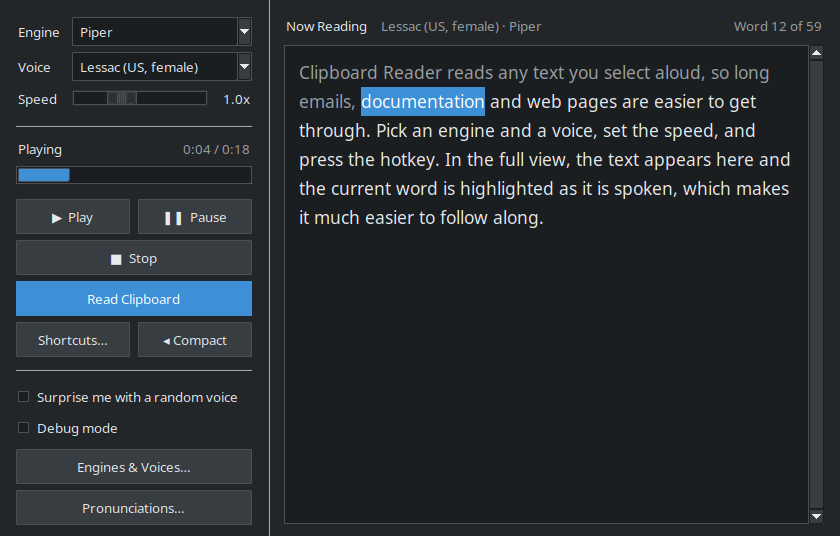
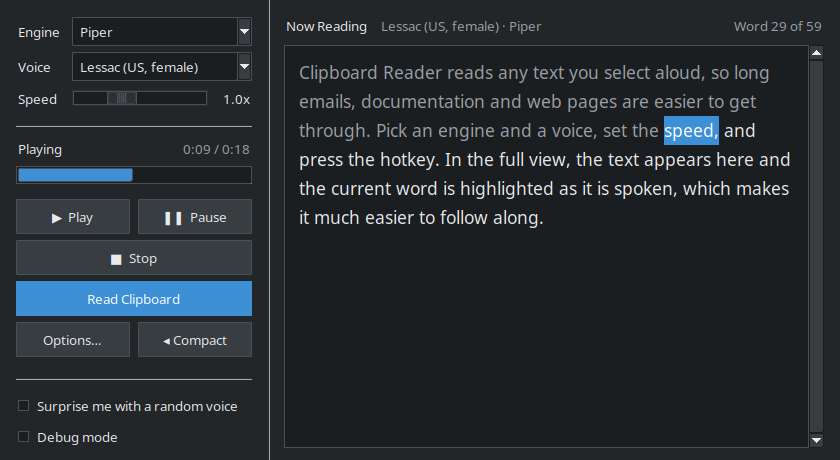
Move engines, pronunciations and shortcuts into one Options window (v1.8.0)
Engines & Voices, Pronunciations, Links, paths & codes, and Shortcuts are
now tabs in one Options window, opened by a single Options… button. The
Shortcuts tab saves without closing, and right-clicking a word in Now
Reading opens Options on the Pronunciations tab.

diff --git a/reader.py b/reader.py
@@ -1,5 +1,5 @@
 
-__version__ = "1.7.0"
+__version__ = "1.8.0"
 
 # Dependency check
 import sys
@@ -1554,11 +1554,13 @@ def create_control_window():
         save_settings()
         return True
 
-    def open_shortcut_preferences():
-        dialog, body = themed_toplevel(window, "Shortcut Preferences")
-        dialog.transient(window)
-        dialog.grab_set()
+    shortcut_hooks = {"save": None}  # the Shortcuts tab's Save button, while the Options window is open
+    controls_busy = {"on": False}    # True while a read is building (Save is turned off then)
 
+    def build_shortcut_preferences(body):
+        """The Shortcuts tab: pick the key combination for each action."""
+        ttk.Label(body, text="Choose the key combination for each action. Changes take effect when you click Save.",
+                  wraplength=780).grid(row=0, column=0, columnspan=3, sticky="w", pady=(0, 12))
         modifier_options = [
             "Win",
             "Win+Shift",
@@ -1572,11 +1574,11 @@ def create_control_window():
         key_options = ["Esc", "A", "B", "C", "D", "E", "F", "G", "H", "I", "J", "K", "L", "M", "N", "O", "P", "Q", "R", "S", "T", "U", "V", "W", "X", "Y", "Z", "Space", "Enter", "Tab"]
         shortcut_vars = {}
 
-        ttk.Label(body, text="Action", style="Header.TLabel").grid(row=0, column=0, sticky="w", padx=(0, 10), pady=(0, 6))
-        ttk.Label(body, text="Modifier", style="Header.TLabel").grid(row=0, column=1, sticky="w", padx=4, pady=(0, 6))
-        ttk.Label(body, text="Key", style="Header.TLabel").grid(row=0, column=2, sticky="w", padx=4, pady=(0, 6))
+        ttk.Label(body, text="Action", style="Header.TLabel").grid(row=1, column=0, sticky="w", padx=(0, 10), pady=(0, 6))
+        ttk.Label(body, text="Modifier", style="Header.TLabel").grid(row=1, column=1, sticky="w", padx=4, pady=(0, 6))
+        ttk.Label(body, text="Key", style="Header.TLabel").grid(row=1, column=2, sticky="w", padx=4, pady=(0, 6))
 
-        for row_index, action in enumerate(HOTKEY_ORDER, start=1):
+        for row_index, action in enumerate(HOTKEY_ORDER, start=2):
             modifier, key = hotkey_dropdown_values(hotkeys.get(action, DEFAULT_HOTKEYS[action]))
             modifier_var = tk.StringVar(value=modifier)
             key_var = tk.StringVar(value=key)
@@ -1591,25 +1593,37 @@ def create_control_window():
                 for action, (modifier_var, key_var) in shortcut_vars.items()
             }
 
-        def on_dialog_save():
-            if apply_hotkey_preferences(selected_hotkeys()):
-                dialog.destroy()
+        def show_saved(text):
+            status.config(text=text)
 
-        def on_dialog_reset():
+        def on_tab_save():
+            if apply_hotkey_preferences(selected_hotkeys()):
+                show_saved("Shortcuts saved.")
+
+        def on_tab_reset():
             for action, (modifier_var, key_var) in shortcut_vars.items():
                 modifier, key = hotkey_dropdown_values(DEFAULT_HOTKEYS[action])
                 modifier_var.set(modifier)
                 key_var.set(key)
+            show_saved("Defaults filled in. Click Save to use them.")
+
+        for modifier_var, key_var in shortcut_vars.values():
+            for var in (modifier_var, key_var):
+                var.trace_add("write", lambda *_: show_saved(""))
 
         button_row = ttk.Frame(body)
-        button_row.grid(row=len(HOTKEY_ORDER) + 1, column=0, columnspan=3, sticky="ew", pady=(14, 0))
-        ttk.Button(button_row, text="Reset", command=on_dialog_reset, width=8).pack(side=tk.LEFT)
-        ttk.Button(button_row, text="Save", command=on_dialog_save, width=8, style="Accent.TButton").pack(side=tk.RIGHT)
-        ttk.Button(button_row, text="Cancel", command=dialog.destroy, width=8).pack(side=tk.RIGHT, padx=(0, 6))
-        dialog.bind("<Escape>", lambda _e: dialog.destroy())
+        button_row.grid(row=len(HOTKEY_ORDER) + 2, column=0, columnspan=3, sticky="ew", pady=(14, 0))
+        ttk.Button(button_row, text="Reset to defaults", command=on_tab_reset).pack(side=tk.LEFT)
+        save_btn = ttk.Button(button_row, text="Save", command=on_tab_save, width=8, style="Accent.TButton")
+        save_btn.pack(side=tk.RIGHT)
+        status = ttk.Label(body, text="", style="Muted.TLabel")
+        status.grid(row=len(HOTKEY_ORDER) + 3, column=0, columnspan=3, sticky="w", pady=(8, 0))
+        if controls_busy["on"]:
+            save_btn.state(["disabled"])  # don't swap shortcuts in the middle of a read
+        shortcut_hooks["save"] = save_btn
 
-    shortcuts_btn = ttk.Button(button_frame, text="Shortcuts…", command=open_shortcut_preferences)
-    shortcuts_btn.grid(row=3, column=0, padx=(0, 4), pady=(3, 0), sticky="ew")
+    options_btn = ttk.Button(button_frame, text="Options…", command=lambda: open_options())
+    options_btn.grid(row=3, column=0, padx=(0, 4), pady=(3, 0), sticky="ew")
     mode_btn = ttk.Button(button_frame, text="Full View ▸")
     mode_btn.grid(row=3, column=1, padx=(4, 0), pady=(3, 0), sticky="ew")
 
@@ -1634,10 +1648,6 @@ def create_control_window():
         save_settings()
     ttk.Checkbutton(options_form, text="Debug mode", variable=debug_var,
                     command=on_debug_toggle).grid(row=1, column=0, columnspan=2, sticky="w", pady=3)
-    manage_btn = ttk.Button(options_form, text="Engines & Voices…", command=lambda: open_engine_manager())
-    manage_btn.grid(row=2, column=0, columnspan=2, sticky="ew", pady=(6, 3))
-    ttk.Button(options_form, text="Pronunciations…", command=lambda: open_pronunciation_editor()) \
-        .grid(row=3, column=0, columnspan=2, sticky="ew", pady=3)
 
     def refresh_engine_choices():
         """Re-apply enable/disable settings to the Engine and Voice lists."""
@@ -1661,12 +1671,9 @@ def create_control_window():
         if manager_hooks["refresh"] is not None:
             manager_hooks["refresh"](engine_name)  # the manager's list and details
 
-    def open_engine_manager():
-        """Turn engines and voices on or off, and see details, speed and ratings for each."""
-        dialog, body = themed_toplevel(window, "Engines & Voices")
-        dialog.transient(window)
-        dialog.resizable(True, True)
-        dialog.minsize(950, 520)
+    def build_engine_manager(dialog, body):
+        """The Engines & Voices tab: turn engines and voices on or off, and see details,
+        speed and ratings for each."""
         ttk.Label(body, text="Click a row's box to turn it on or off; turned-off engines and voices are hidden "
                              "from the drop-downs. Select a row to see its details.", wraplength=780).pack(anchor="w")
 
@@ -2171,30 +2178,16 @@ def create_control_window():
 
         ttk.Button(buttons, text="All voices on", command=lambda: set_all_voices(True)).pack(side=tk.LEFT)
         ttk.Button(buttons, text="All voices off", command=lambda: set_all_voices(False)).pack(side=tk.LEFT, padx=(6, 0))
-        ttk.Button(buttons, text="Close", style="Accent.TButton", command=dialog.destroy, width=8).pack(side=tk.RIGHT)
-        dialog.bind("<Escape>", lambda _e: dialog.destroy())
 
         # Start with the current engine selected
         tree.selection_set(engine_items.get(tts_engine, engine_items[all_names[0]]))
 
     pron_editor = {"open": None}  # the open editor's "load a word" function, if any
 
-    def open_pronunciation_editor(word=None):
-        """Add, change and test rules for how words, names and symbols are read aloud."""
+    def build_pronunciation_editor(dialog, notebook, words_tab, filters_tab):
+        """The Pronunciations and Links, paths & codes tabs: add, change and test rules for
+        how words, names and symbols are read aloud."""
         global pronunciations
-        if pron_editor["open"] is not None:
-            pron_editor["open"](word)  # already open: bring it forward with this word
-            return
-        dialog, body = themed_toplevel(window, "Pronunciations")
-        dialog.transient(window)
-        dialog.resizable(True, True)
-        dialog.minsize(860, 0)
-        notebook = ttk.Notebook(body)
-        notebook.pack(fill=tk.BOTH, expand=True)
-        words_tab = ttk.Frame(notebook, padding=(12, 12, 12, 10))
-        filters_tab = ttk.Frame(notebook, padding=(12, 12, 12, 10))
-        notebook.add(words_tab, text="Words & names")
-        notebook.add(filters_tab, text="Links, paths & codes")
         ttk.Label(words_tab, text="Change how words, names, abbreviations and symbols are read aloud. "
                                   "Click a rule's box to turn it on or off. Tip: right-click a word in "
                                   "Now Reading to add it here.", wraplength=780).pack(anchor="w")
@@ -2338,11 +2331,6 @@ def create_control_window():
             spoken = try_spoken().strip()
             try_result.config(text=f"Read as: {spoken}" if spoken else "Read as: (nothing)")
         try_var.trace_add("write", update_try)
-
-        buttons = ttk.Frame(body)
-        buttons.pack(fill=tk.X, pady=(10, 0))
-        ttk.Button(buttons, text="Close", style="Accent.TButton", width=8,
-                   command=lambda: close()).pack(side=tk.RIGHT)
 
         state = {"editing": None, "playing": False}  # index of the rule in the form (None: new)
         items = {}  # tree item -> rule index
@@ -2543,21 +2531,57 @@ def create_control_window():
             threading.Thread(target=play_sample, args=(name, engine_voices.get(name), sample, report),
                              daemon=True).start()
 
-        def close():
-            pron_editor["open"] = None
-            dialog.destroy()
-
-        dialog.protocol("WM_DELETE_WINDOW", close)
-        dialog.bind("<Escape>", lambda _e: close())
         text_entry.bind("<Return>", lambda _e: save_rule())
         say_entry.bind("<Return>", lambda _e: save_rule())
         pron_editor["open"] = open_word
         redraw()
         update_try()
+        new_rule()
+
+    options_window = {"dialog": None, "notebook": None, "tabs": {}}
+
+    def open_options(tab=None, word=None):
+        """The Options window: engines and voices, pronunciations, links/paths/codes and shortcuts,
+        one tab each. `tab` picks a tab; `word` opens the Pronunciations tab on that word."""
+        dialog = options_window["dialog"]
+        if dialog is None or not dialog.winfo_exists():
+            dialog, body = themed_toplevel(window, "Options")
+            dialog.transient(window)
+            dialog.resizable(True, True)
+            dialog.minsize(980, 600)
+            notebook = ttk.Notebook(body)
+            notebook.pack(fill=tk.BOTH, expand=True)
+            tabs = {}
+            for key, title in (("engines", "Engines & Voices"), ("words", "Pronunciations"),
+                               ("filters", "Links, paths & codes"), ("shortcuts", "Shortcuts")):
+                tabs[key] = ttk.Frame(notebook, padding=(12, 12, 12, 10))
+                notebook.add(tabs[key], text=title)
+            options_window.update(dialog=dialog, notebook=notebook, tabs=tabs)
+
+            def close():
+                pron_editor["open"] = None
+                shortcut_hooks["save"] = None
+                options_window["dialog"] = None
+                dialog.destroy()
+
+            buttons = ttk.Frame(body)
+            buttons.pack(fill=tk.X, pady=(10, 0))
+            ttk.Button(buttons, text="Close", style="Accent.TButton", width=8, command=close).pack(side=tk.RIGHT)
+            dialog.protocol("WM_DELETE_WINDOW", close)
+            dialog.bind("<Escape>", lambda _e: close())
+
+            build_engine_manager(dialog, tabs["engines"])
+            build_pronunciation_editor(dialog, notebook, tabs["words"], tabs["filters"])
+            build_shortcut_preferences(tabs["shortcuts"])
+        tabs = options_window["tabs"]
         if word:
-            open_word(word)
+            pron_editor["open"](word)  # selects the Pronunciations tab and shows the word
         else:
-            new_rule()
+            if tab in tabs:
+                options_window["notebook"].select(tabs[tab])
+            dialog.deiconify()
+            dialog.lift()
+            dialog.focus_force()
 
     version_label = ttk.Label(content, text=f"Version {__version__}", style="Muted.TLabel")
     version_label.pack(pady=(12, 0))
@@ -2609,8 +2633,8 @@ def create_control_window():
                        borderwidth=1, relief=tk.SOLID)
         existing = any(str(r["text"]).lower() == word.lower() for r in pronunciations)
         menu.add_command(label=f"{'Edit' if existing else 'Change'} how “{word}” is read…",
-                         command=lambda: open_pronunciation_editor(word))
-        menu.add_command(label="Pronunciations…", command=open_pronunciation_editor)
+                         command=lambda: open_options(word=word))
+        menu.add_command(label="Pronunciations…", command=lambda: open_options("words"))
         try:
             menu.tk_popup(event.x_root, event.y_root)
         finally:
@@ -2733,7 +2757,9 @@ def create_control_window():
         stop_btn.state([ttk_state])
         read_btn.state([ttk_state])
         speed_slider.state([ttk_state])
-        shortcuts_btn.state([ttk_state])
+        controls_busy["on"] = disabled
+        if shortcut_hooks["save"] is not None and shortcut_hooks["save"].winfo_exists():
+            shortcut_hooks["save"].state([ttk_state])
     window.set_buttons_state = set_controls_state
 
     current_missing = check_engine_dependencies(tts_engine)

diff --git a/README.md b/README.md
@@ -1,7 +1,7 @@
 # Clipboard Reader
 Reads text aloud. A Python take on TextAloud MP3 that runs on Linux, Windows, or macOS.
 
-**Version:** 1.7.0 — see [Changelog](#changelog) for what changed in each version.
+**Version:** 1.8.0 — see [Changelog](#changelog) for what changed in each version.
 
 ![Clipboard Reader in the Full view, highlighting the word being read](docs/screenshots/full-view.png)
 
@@ -16,17 +16,19 @@ So I made my own. Copilot helped me get it started, and Claude helped me turn it
 
 ![Compact view: engine, voice, speed and playback controls](docs/screenshots/compact.png)
 
+**Options** (the **Options…** button) has four tabs:
+
 **Engines & Voices**: turn engines and voices on or off, preview them, download or delete voices, and see where audio is generated, speed and quality.
 
-![Engines & Voices window with a Piper voice selected](docs/screenshots/engines-voices.png)
+![Options window, Engines & Voices tab, with Piper selected](docs/screenshots/engines-voices.png)
 
 **Pronunciations**: change how words, names, abbreviations and symbols are read.
 
-![Pronunciations editor with a rule that reads Nguyen as "win"](docs/screenshots/pronunciations.png)
+![Options window, Pronunciations tab, with a rule that reads Nguyen as "win"](docs/screenshots/pronunciations.png)
 
 **Links, paths & codes**: read long web links, email addresses, file paths and codes in a short form instead of spelling them out.
 
-![Links, paths & codes tab with a Try it box](docs/screenshots/links-paths-codes.png)
+![Options window, Links, paths & codes tab, with a Try it box](docs/screenshots/links-paths-codes.png)
 
 ## Requirements
 
@@ -89,7 +91,7 @@ Each TTS engine lives in the tts_engines directory and implements a common inter
 
 Pick the engine and voice in the control window. Each engine remembers its own voice choice.
 
-In the Full view, **Engines & Voices…** (bottom left) opens a list of every engine and voice showing where its speech is **Generated**, its **Speed**, and its **Quality**:
+The **Engines & Voices** tab of **Options…** shows a list of every engine and voice showing where its speech is **Generated**, its **Speed**, and its **Quality**:
 - **Generated:** "Locally" means the speech is made on your computer and nothing you read leaves it (Piper, Coqui, eSpeak-NG, Festival, pyttsx3). "Online (Google)" for gTTS and "Online (Microsoft)" for Edge TTS mean the text you read is sent to that company's servers, which return the audio. Piper downloads each voice once but then runs offline.
 - **Details:** select an engine or voice to see its details: gender, accent, whether it needs the internet, download size, audio format, the model or service behind it, and for Edge voices Microsoft's personality and "good for" tags.
 - **Speed** is measured, not guessed. Every read (and every Preview) records how long the voice took to build compared with how long the speech is. "About 8 s to build 1 minute of speech" means fast. Builds that include a one-time download or model load are skipped.
@@ -102,7 +104,7 @@ These are saved in settings.json as `disabled_engines`, `disabled_voices`, `voic
 
 | Engine | Voices | Quality | Needs |
 |---|---|---|---|
-| [Piper](tts_engines/engine_piper.py) | 15 English voices (US, UK, Scottish; male and female) | Natural neural voices, offline | Each voice is ~63 MB, downloaded the first time it's used (or from Engines & Voices) to `~/.textReader/voices/piper`; downloaded voices can be deleted there |
+| [Piper](tts_engines/engine_piper.py) | 15 English voices (US, UK, Scottish; male and female) | Natural neural voices, offline | Each voice is ~63 MB, downloaded the first time it's used (or from Options… → Engines & Voices) to `~/.textReader/voices/piper`; downloaded voices can be deleted there |
 | [Edge TTS](tts_engines/engine_edge.py) | ~47 English voices from Microsoft (US, UK, Australia, Canada, India, Ireland, and more) | Very natural neural voices | Internet connection |
 | [gTTS](tts_engines/engine_gtts.py) | 8 English accents (US, UK, Australia, Canada, India, Ireland, South Africa, Nigeria) | Good | Internet connection |
 | [pyttsx3](tts_engines/engine_pyttsx3.py) | The system's speech voices (eSpeak on Linux, SAPI on Windows, NSSpeech on macOS) | Robotic on Linux | — |
@@ -149,7 +151,7 @@ The main app (reader.py) only calls `get_engine()` and `synthesize()` and does n
 4. Copy the executable to your target system. Make sure ffmpeg is installed (see above).
 
 ## Features
-- **Pronunciations:** change how words, names, abbreviations and symbols are read aloud (Full view → Pronunciations…, or right-click a word in Now Reading). See [Pronunciations](#pronunciations).
+- **Pronunciations:** change how words, names, abbreviations and symbols are read aloud (Options… → Pronunciations, or right-click a word in Now Reading). See [Pronunciations](#pronunciations).
 - **Links, paths & codes:** long web links, email addresses, file paths and codes (hashes, keys, account numbers) are read in a short form you choose, like "github.com path 6" or "40 character code six five seven zero". See [Links, paths and codes](#links-paths-and-codes).
 - **Surprise me:** tick "Surprise me with a random voice" (Full view, bottom left) and each read uses a random voice from the engines and voices you have turned on. Voices that would need a download first are skipped, and the same voice isn't picked twice in a row. The Now Reading header shows which voice was used. If the picked voice fails (for example, an online service doesn't answer), another engine is tried automatically.
 - Two views: **Compact** (just the controls, small enough to leave on screen) and **Full** (adds a panel showing the text being read, with the current word highlighted). Switch with the Full View ▸ / ◂ Compact button.
@@ -157,10 +159,11 @@ The main app (reader.py) only calls `get_engine()` and `synthesize()` and does n
 - Adjustable playback speed (0.5x–2x)
 - System tray icon
 - GUI controls
-- Configurable keyboard shortcuts
+- Configurable keyboard shortcuts (Options… → Shortcuts)
+- One **Options…** window with tabs for Engines & Voices, Pronunciations, Links, paths & codes, and Shortcuts
 
 ## Preferences
-Settings are saved in `~/.textReader/settings.json`. The control window includes a Shortcuts button that opens a shortcut preferences dialog with dropdowns for modifier and key choices. The same values can also be edited directly in JSON:
+Settings are saved in `~/.textReader/settings.json`. The **Shortcuts** tab of the **Options…** window has drop-downs for the modifier and key of each action; click **Save** to use them. The same values can also be edited directly in JSON:
 
 ```json
 {
@@ -189,7 +192,7 @@ Settings are saved in `~/.textReader/settings.json`. The control window includes
 `view_mode` is `"compact"` or `"full"`, and `full_window_size` remembers the Full view's size (for example `"840x460"`). Both are saved automatically.
 
 ## Pronunciations
-Open **Pronunciations…** in the Full view (bottom left), or right-click a word (or a selection) in Now Reading and choose **Change how "word" is read…**. Each rule matches a word, name, letters or symbol and does one of:
+Open the **Pronunciations** tab of **Options…**, or right-click a word (or a selection) in Now Reading and choose **Change how "word" is read…**. Each rule matches a word, name, letters or symbol and does one of:
 
 | Option | Example |
 |---|---|
@@ -202,7 +205,7 @@ Options per rule: **Whole word only** (on by default, so "cat" doesn't change "c
 Rules apply to every read (including Surprise me). Now Reading still shows your original text, and word highlighting is timed to what is actually said. With Debug mode on, the terminal shows the text sent to the voice. Rules are applied in one pass, longest first, and are saved as `pronunciations` in settings.json; the logic lives in [pronunciation.py](pronunciation.py).
 
 ### Links, paths and codes
-The **Links, paths & codes** tab of the Pronunciations window chooses how long, hard-to-listen-to text is read. Each row shows an example, what it will sound like, and a **▶ Hear** button. The **Try it** box shows how any text you paste will be read (word rules included) and can play it.
+The **Links, paths & codes** tab of **Options…** chooses how long, hard-to-listen-to text is read. Each row shows an example, what it will sound like, and a **▶ Hear** button. The **Try it** box shows how any text you paste will be read (word rules included) and can play it.
 
 | Kind | Options (first is the default) |
 |---|---|
@@ -239,6 +242,11 @@ In testing with gTTS, sentence starts landed within about 0.1 s of the real audi
 ## Changelog
 
 The version number is also stored in `__version__` at the top of `reader.py`.
+
+### 1.8.0 — 2026-11-13
+- **Changed:** Engines & Voices, Pronunciations, Links, paths & codes, and Shortcuts are now tabs in one **Options** window, opened by a single **Options…** button next to Full View. The separate Engines & Voices…, Pronunciations… and Shortcuts… buttons are gone.
+- **Changed:** The Shortcuts tab saves without closing the window ("Shortcuts saved."), and Reset is now "Reset to defaults".
+- **Changed:** Right-clicking a word in Now Reading opens Options on the Pronunciations tab with that word filled in.
 
 ### 1.7.0 — 2026-11-13
 - **Added:** Links, paths & codes tab in the Pronunciations window. Long web links, email addresses, file paths and codes are read in a short form you choose (e.g. "github.com path 6", "path slash textReader slash reader dot py", "40 character code six five seven zero"), with an example and Hear button for each, and a Try it box. Saved as `text_filters`.
